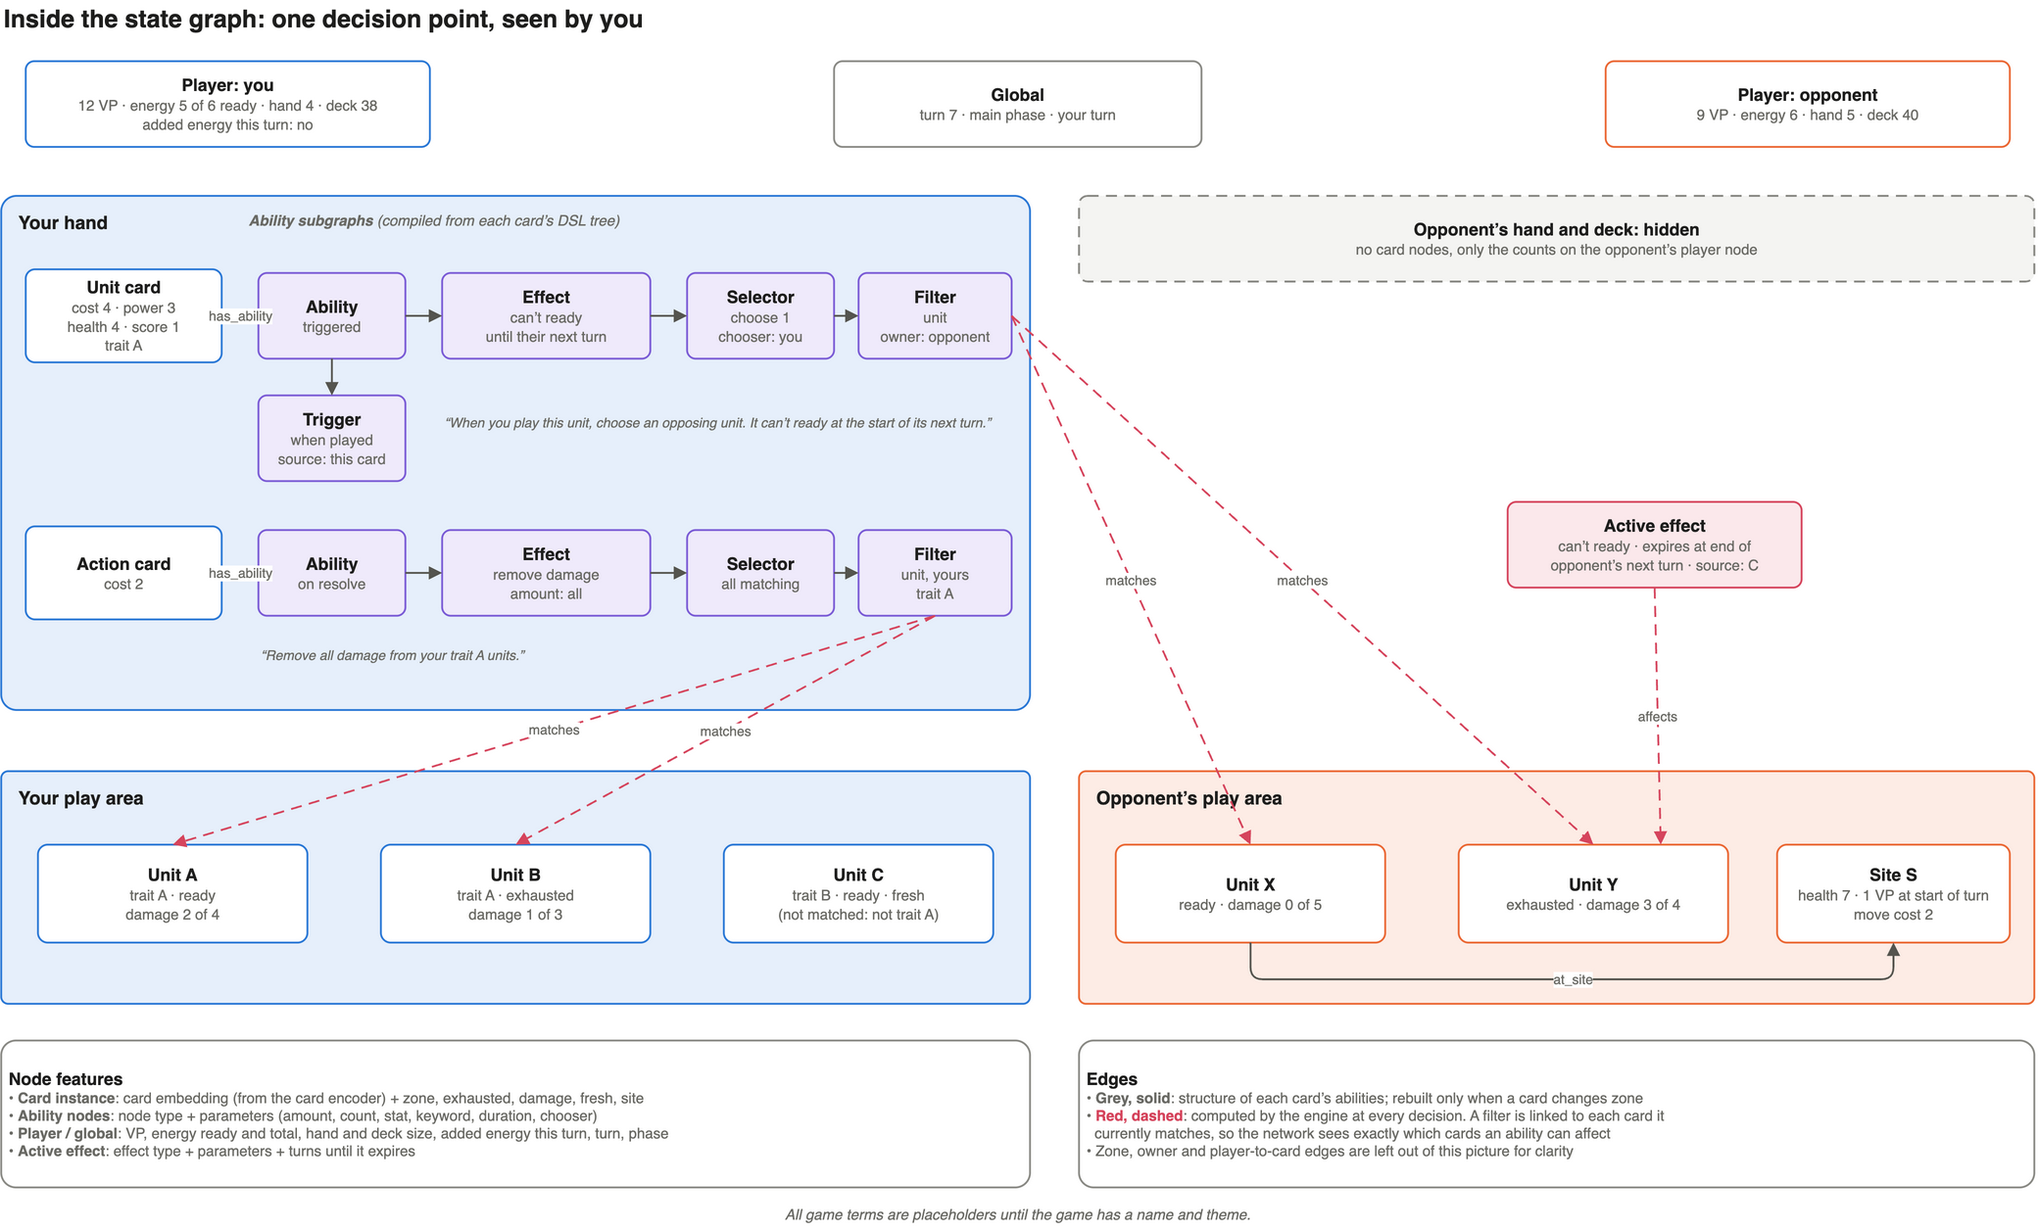
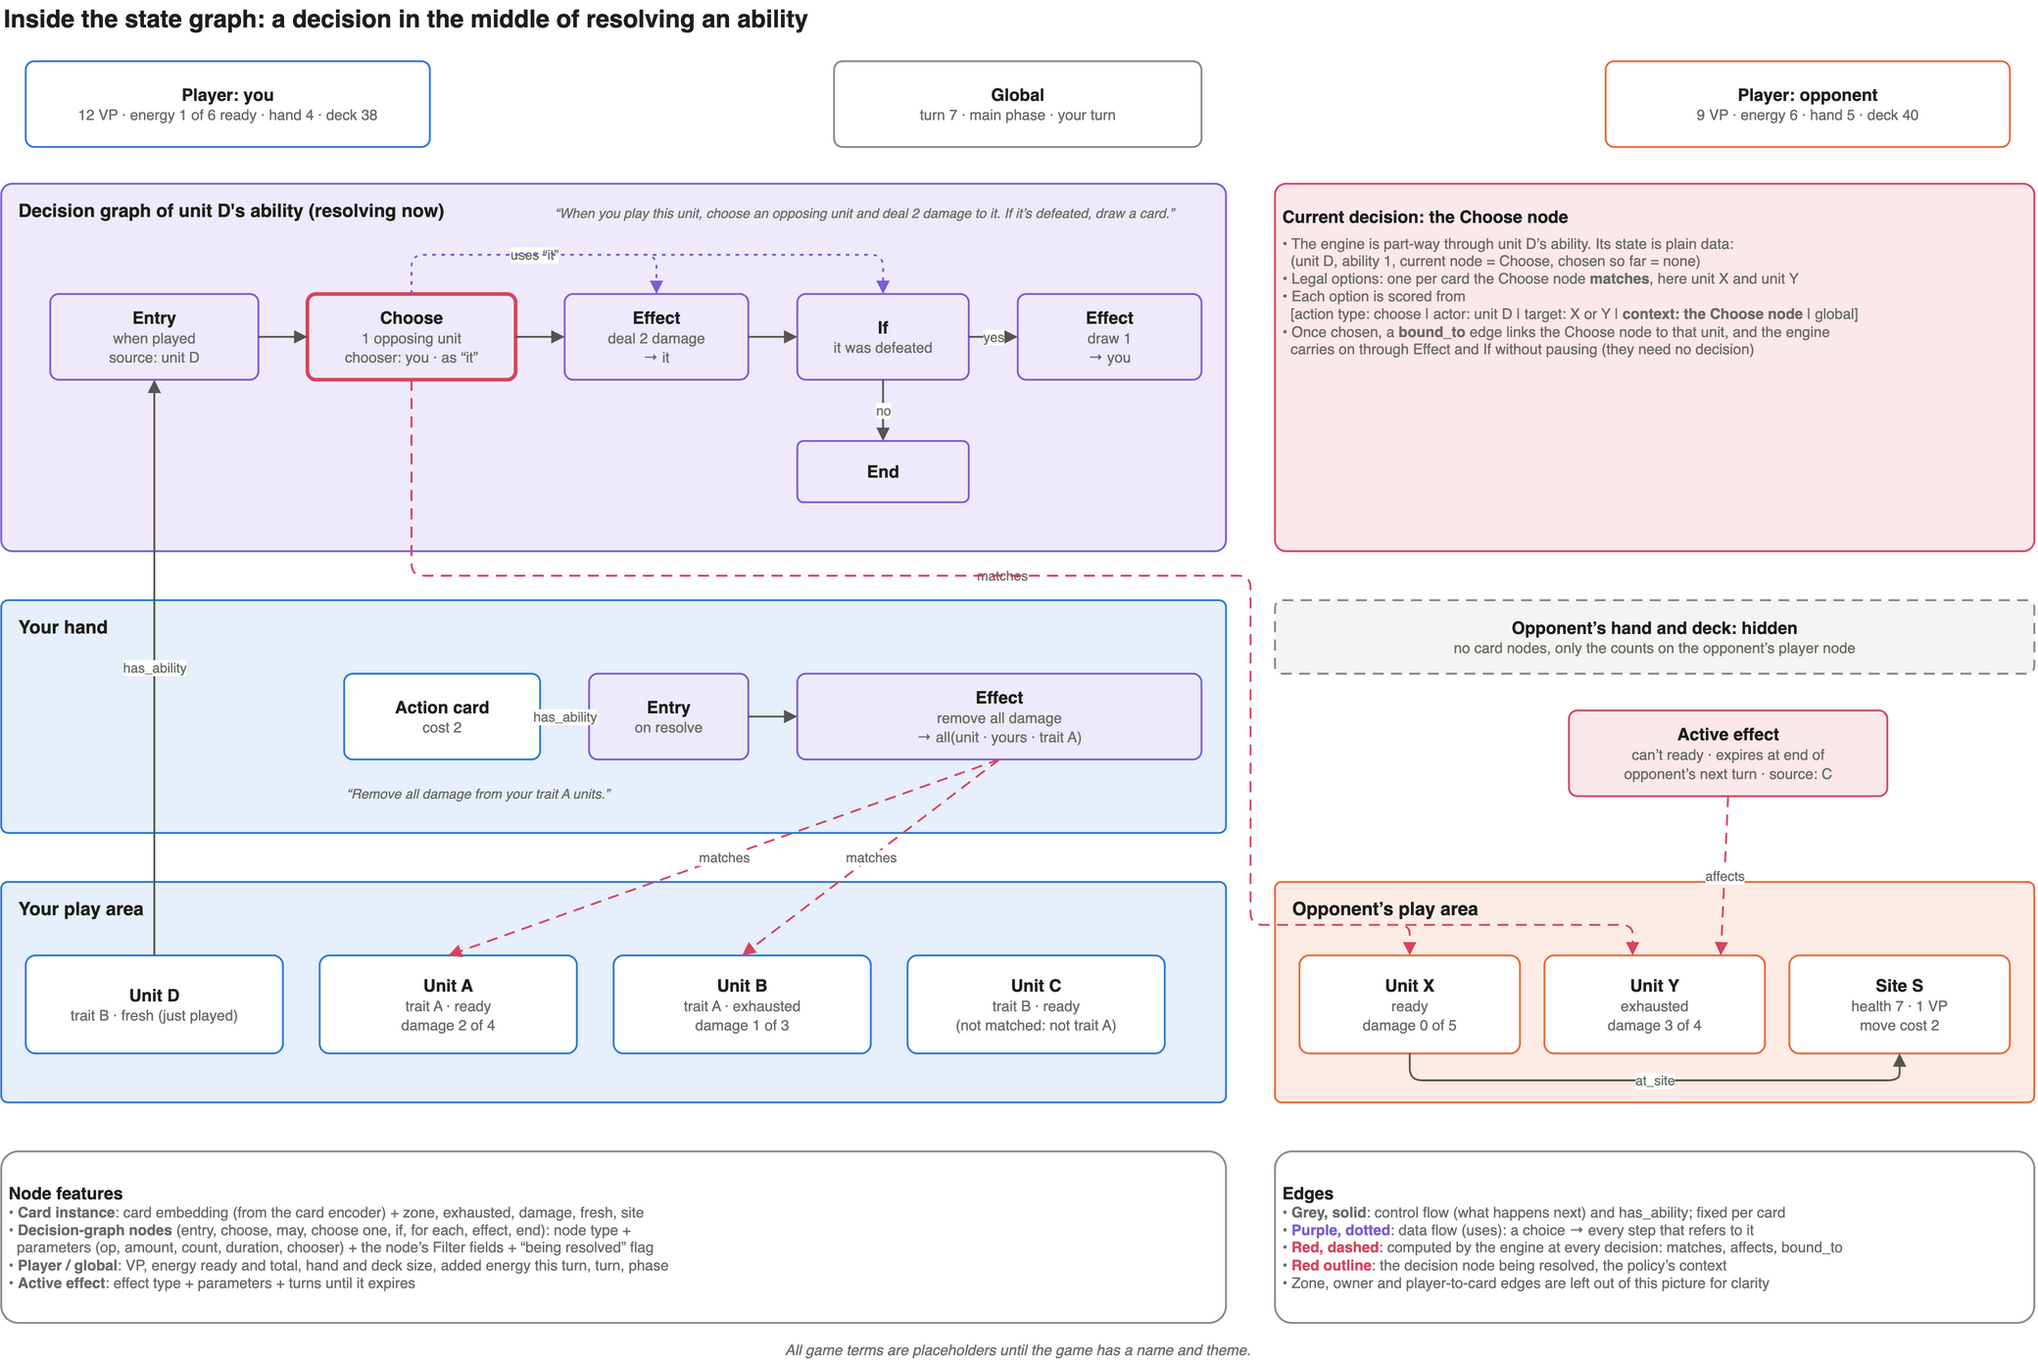
Design ability DSL: authoring trees compiled to decision graphs
- Abilities are written as nested trees (generated, validated, rendered as
  text) and compiled to decision graphs that the engine walks and the GNN
  reads; choices are decision nodes, references are data edges
- Static abilities and keywords stay declarative
- Grammar adds 'this card' subjects, situational conditions (attacking,
  defending, exhausted, damaged) and capped scaling amounts
- New diagram page: the full ability grammar, constraints and validation
  pipeline; state-graph page redrawn around a mid-ability decision

diff --git a/docs/technical-plan.md b/docs/technical-plan.md
@@ -15,7 +15,8 @@ the rules are defined. This also keeps the project free of card licensing issues
 ![System overview](architecture_overview.png)
 
 The diagram source is [architecture.drawio](architecture.drawio). Page 1 is the system
-overview above; page 2 shows the state graph in detail (see section 5).
+overview above; page 2 shows the state graph in detail (section 5); page 3 is the ability
+grammar: every ability the generator can produce (section 3).
 
 ## Placeholder glossary
 
@@ -110,53 +111,135 @@ followed by a bootstrapping round (section 8):
 }
 ```
 
-**Ability grammar.** It is small, typed and closed, so every tree can be executed,
-rendered as text and generated:
+**Abilities are written as trees and run as decision graphs.** Each ability exists in two
+forms:
+
+1. **Authoring form: a nested tree, stored in the card JSON.** This is what gets written by
+   hand, generated, validated and rendered as card text. Trees are easy for all four.
+2. **Decision graph, compiled once per card from the tree.** The engine executes it and the
+   GNN reads it. Each step becomes a node. Control edges say what happens next. Data edges
+   connect a choice to every later step that refers to it ("it", "that unit", "if you do").
+
+Static abilities and keywords aren't sequences of steps. They are rules applied whenever
+stats or legality are calculated, so they stay declarative and are never compiled into a
+flow.
+
+![Ability grammar](architecture_ability_grammar.png)
+
+**Grammar (authoring form).** It is small, typed and closed. Page 3 of the diagram lists
+every alternative and value range: it is the full space of abilities the generator can
+produce.
 
 ```
-Ability   := triggered(Trigger, [Condition], [Cost], Effect+)
-           | activated(Cost+, [Condition], Effect+)
-           | static(Condition?, Modifier+)
-Trigger   := on_play | on_score | on_duel | on_defeated | on_start_of_turn | on_end_of_turn | …  (+ source Filter)
-Effect    := deal_damage(n, Selector) | remove_damage(n|all, Selector) | defeat(Selector)
-           | return_to_hand(Selector) | draw(n, Player) | gain_vp(n, Player) | lose_vp(n, Player)
-           | exhaust(Selector) | ready(Selector) | cant_ready(Selector, Duration)
-           | modify_stat(stat, Δ, Selector, Duration) | grant_keyword(kw, Selector, Duration)
-           | put_into_energy(Selector) | look_and_choose(n, …) | …
-Selector  := choose(count, chooser, Filter, optional?) | all(Filter) | this | random(count, Filter)
-Filter    := {type?, owner?, zone?, trait?, cost_cmp?, damaged?, exhausted?, name?, …}
-Duration  := this_turn | until_their_next_turn | while(Condition) | permanent
+Ability    := triggered(Trigger, [Condition], Steps)
+            | activated(Cost, [Condition], Steps)            // "⟳ …" abilities
+            | on_resolve(Steps)                              // action cards
+            | static([Condition], Modifier+)                 // declarative, not compiled to a flow
+Steps      := Step+                                          // 1–4 steps, run in order
+Step       := choose(count, chooser, Filter, optional?) as Name    // decision point
+            | Effect
+            | if(Condition) then Steps [else Steps]
+            | may(Steps) [if_you_do Steps]                   // yes / no decision point
+            | choose_one(Steps, Steps)                       // decision point
+            | for_each(Target) Steps
+Effect     := op(Amount?, Target, [Duration])
+Target     := Name | this | all(Filter) | you | opponent | owner_of(Name)
+Trigger    := event + source (this | Filter)
+Cost       := exhaust_this | pay(n) | exhaust_another | discard          (up to two)
+Condition  := defeated(Name) | in_play(Name) | count(Filter) ≥ n | vp_compare | your_turn
+            | this_is(attacking | defending | exhausted | damaged)
+Modifier   := Subject gets stat ±Amount [while Condition]
+            | Subject gains Keyword [while Condition]
+            | cost(−1) for Filter
+Subject    := this | all(Filter)
+Amount     := n | k per count(Filter), up to cap | stat_of(Name)
+Filter     := {type?, owner?, zone?, trait?, cost_cmp?, damaged?, exhausted?, keyword?, not_this?}
+Duration   := this_turn | until_their_next_turn | while_this_in_play | permanent
 ```
 
-**Requirements so the DSL can be generated:**
+A `Name` can only refer to a choice made earlier in the same ability. That keeps every tree
+valid and every reference renderable as text.
 
-- **Types and ranges.** Every parameter has a type and a valid range (e.g. `deal_damage.n ∈
-  1..5`). Every effect has a *polarity* (does it help or hurt the target?) so that, say,
-  "remove damage" can't target opposing units unless a rule explicitly allows it.
-- **Text renderer.** A DSL → card text renderer is needed for the Unity client and for
-  human review. It is also the easy direction: nothing has to parse free text.
-- **"Does something" check.** The engine checks that an ability actually changes game state
-  across simulated games, and that it never loops.
-- **Granularity.** The building blocks set the design space, so generated abilities are new
-  combinations, not new mechanics. Fine-grained, independent building blocks (events, zones,
-  counters, conditions) widen that space but make generation harder; template-sized blocks
-  do the opposite. Start template-sized and break blocks apart as the generator improves.
+**Scaling amounts.** Wherever an effect or modifier takes a number, it can take an `Amount`
+instead. That covers "deal 1 damage for each Elf in play" and "deal damage equal to its
+power". A static ability can scale too: "While this unit is attacking, it gets +1 power for
+each Elf in play (up to +4)" is `static(this_is(attacking), this gets power +(1 per
+count(Elf in play), up to 4))`. Statics are recalculated live, so the count is taken when the
+bonus is needed. A triggered version ("when this unit attacks, it gets +1 power this turn for
+each Elf") takes a snapshot instead. In the state graph, a scaling amount is its own small
+node with `matches` edges to the cards it is counting.
 
-**The two example abilities as trees:**
+**Generation constraints.** These are applied while sampling, then checked again before a
+card is accepted:
+
+- **Scope.** References only point to earlier choices in the same ability.
+- **Types.** An effect's target has the right type: unit effects target units, player
+  effects target players.
+- **Polarity.** Every effect either helps or hurts its target. Helpful effects target your
+  side, harmful ones the opponent's. The reverse is allowed only inside `may … if_you_do`,
+  as a cost ("You may deal 2 damage to one of your units. If you do, draw 2 cards.").
+- **Size.** At most 2 abilities per card, 4 steps per sequence, nesting depth 2, and 2
+  choices per ability.
+- **Ranges.** Every number comes from its range (e.g. `deal_damage` 1–5). A scaling amount
+  must have a cap, so the card's strength is bounded and the cost model can price it.
+- **Validation pipeline:**
+  1. Render the card text.
+  2. Compile the decision graph.
+  3. Simulate in self-play. The ability must change the game state and never loop.
+  4. The cost model sets the card's cost and stats (auto-costing).
+
+**Granularity.** The building blocks set the design space, so generated abilities are new
+combinations, not new mechanics. Fine-grained, independent building blocks (events, zones,
+counters, conditions) widen that space but make generation harder; template-sized blocks do
+the opposite. Start template-sized and break blocks apart as the generator improves.
+
+**Two examples in authoring form:**
 
 ```jsonc
-// "When you play this unit, choose an opposing unit. It can't ready at the start of its next turn."
+// "When you play this unit, choose an opposing unit and deal 2 damage to it. If it's defeated, draw a card."
 {"kind": "triggered", "trigger": {"event": "on_play", "source": "this"},
- "effects": [{"op": "cant_ready", "duration": "until_their_next_turn",
-              "target": {"select": "choose", "count": 1, "chooser": "you",
-                         "filter": {"type": "unit", "owner": "opponent"}}}]}
+ "steps": [
+   {"choose": {"count": 1, "chooser": "you", "filter": {"type": "unit", "owner": "opponent"}}, "as": "it"},
+   {"effect": "deal_damage", "amount": 2, "target": "it"},
+   {"if": {"defeated": "it"}, "then": [{"effect": "draw", "amount": 1, "target": "you"}]}]}
 
 // "Remove all damage from your trait A units."
 {"kind": "on_resolve",
- "effects": [{"op": "remove_damage", "amount": "all",
-              "target": {"select": "all",
-                         "filter": {"type": "unit", "owner": "you", "trait": "trait_a"}}}]}
+ "steps": [{"effect": "remove_damage", "amount": "all",
+            "target": {"all": {"type": "unit", "owner": "you", "trait": "trait_a"}}}]}
 ```
+
+**The decision graph.** The first example compiles to:
+
+```
+ENTRY(on_play) → CHOOSE(1 opposing unit, as "it") → EFFECT(deal 2 damage) → IF(defeated?) ─yes→ EFFECT(draw 1)
+                        ║                                   ▲                    ▲          └─no──→ END
+                        ╚══════════ uses "it" ══════════════╩════════════════════╝
+```
+
+- **Node types:**
+  - `entry`
+  - `choose`, `may`, `choose_one`: the decision points
+  - `if`, `for_each`, `effect`
+  - `end`
+- **Edges:**
+  - control: `next`, `then`, `else`, `option`, `if_you_do`
+  - data: `uses`, from a `choose` or `for_each` to every step that refers to its name
+- **Filters** are features of the node that uses them: a `choose`, an `effect` targeting
+  `all(…)`, or an `if` testing `count(…)`.
+
+Why this form works for both consumers:
+
+- **References are edges.** "It" is a data edge, so no variable scoping is needed at run time.
+- **Resolution state is plain data.** A pending ability is (source card, ability, current
+  node, chosen values). The engine keeps a stack of them. The game can be cloned, saved or
+  sent to the Unity client in the middle of resolving an ability, and porting to C# is
+  straightforward. A recursive interpreter built on Python generators couldn't be
+  deep-copied, and search needs `clone()`.
+- **Decision nodes are the engine's decision points.** At a `choose`, `may` or `choose_one`
+  node the engine pauses and offers the legal options. The policy head gets that node as its
+  *context*, so the network knows exactly which step of which ability it is deciding.
+- **The GNN reads the graph directly** as the card's ability subgraph.
 
 **Card sources:**
 
@@ -177,6 +260,10 @@ Duration  := this_turn | until_their_next_turn | while(Condition) | permanent
   Every decision is "choose one of these N options", and each option refers to graph nodes.
 - **Events and triggers:** an event bus feeds a trigger queue, resolved in rules order.
   Durations are stored as active effects and expired by the turn structure.
+- **Ability resolution:** a stack of pending abilities, each (source card, ability, current
+  node, chosen values). The engine walks each decision graph and pauses at `choose`, `may`
+  and `choose_one` nodes, which become ordinary decision points. Static abilities are
+  applied whenever stats or legality are calculated.
 - **Determinism:** all randomness comes from a seeded RNG. `clone()` and
   `determinize(player)` (re-deal the hidden cards consistently with what the player has
   seen) support search in part b.
@@ -193,19 +280,22 @@ One heterogeneous graph per player per decision point (`torch_geometric.data.Het
 | Node type | Features |
 |---|---|
 | `card` (each card instance that is visible) | card embedding from the card encoder + zone, exhausted, damage, fresh, site, owner (relative: you / opponent) |
-| `ability`, `trigger`, `cost`, `condition`, `effect`, `selector`, `filter` | node type + its parameters (amount, count, stat, keyword, duration, chooser), numbers normalised |
+| ability graph nodes: `entry`, `choose`, `may`, `choose_one`, `if`, `for_each`, `effect`, `end`, plus `static` | node type + parameters (op, amount, count, stat, keyword, duration, chooser) + the fields of the node's Filter, numbers normalised; a flag on the node currently being resolved |
 | `player` (you, opponent) | VP, energy ready / total, hand size, deck size, added energy this turn |
 | `global` | turn number, phase, whose turn |
 | `active_effect` | effect type + parameters + turns until it expires |
 
 | Edge type | Kind | Meaning |
 |---|---|---|
-| `has_ability`, `ability → trigger/cost/condition/effect`, `effect → selector → filter` | static | ability tree structure |
+| `has_ability` | static | card → each of its abilities' `entry` (or `static`) node |
+| `next`, `then`, `else`, `option`, `if_you_do` | static | control flow inside a decision graph |
+| `uses` | static | data flow: a `choose` / `for_each` → every later step that refers to its name ("it") |
 | `same_name` | static | links cards that share a name (Evolve, "named X" checks) without a name embedding |
 | `owns`, `in_zone` | dynamic | player → card, card → zone |
 | `at_site`, `evolved_from` | dynamic | board structure |
 | `faces` | dynamic | between every unit in play and every opposing unit, so units can weigh up direct threats |
-| `matches` | dynamic | filter → every card it currently matches, computed by the engine (respects Veiled, Elusive, etc.) |
+| `matches` | dynamic | a node with a Filter (`choose`, `effect` on `all(…)`, `if` on `count(…)`, `static`, a scaling `amount`) → every card the Filter currently matches, computed by the engine (respects Veiled, Elusive, etc.) |
+| `bound_to` | dynamic | while an ability resolves: a `choose` node → the card(s) already chosen for it |
 | `affects`, `source_of` | dynamic | active effect → affected card; card → effect it created |
 
 Every edge type also gets its reverse, so information flows both ways.
@@ -231,8 +321,10 @@ so a few hundred nodes. That batches easily on a GPU.
   framework-neutral encoder (`src/graph/encode.py`, NumPy arrays). The transformer's input is
   padded to a few fixed sizes, so it also suits TPUs and a JAX port.
 - **Policy head:** each legal option is encoded as `MLP([action-type embedding,
-  emb(actor node), emb(target node), emb(global)])` and scored, with a softmax over the legal
-  options only (a pointer-network style head).
+  emb(actor node), emb(target node), emb(context node), emb(global)])` and scored, with a
+  softmax over the legal options only (a pointer-network style head). While an ability
+  resolves, the context is the decision node being resolved. For a `choose`, the target is
+  the card. For a `choose_one`, the target is the first node of the option's branch.
 - **Value head:** win probability from the pooled player and global nodes. Auxiliary targets
   (final VP difference, turns remaining) help early training.
 - **Cost model:** predicts a card's fair cost from its embedding, trained on the agent's games
@@ -248,6 +340,7 @@ so a few hundred nodes. That batches easily on a GPU.
 | `clone` / `determinize` | AlphaZero-style search over hidden information later | Cheaper, stronger agents for tournaments |
 | No card IDs, cards described by content | Trains on randomized pools and generalises | Evaluates generated cards with no retraining |
 | Typed, closed DSL with a text renderer | — | The generator samples valid trees; the engine runs them unchanged; every card is readable |
+| Abilities compiled to decision graphs | Choices inside abilities are ordinary decision points, scored with the decision node as context | Generated trees run in the engine with no new code |
 | Card embedding + cost model | — | Auto-costing and fast screening of candidates |
 
 ## 8. Bootstrapping from nothing
@@ -285,8 +378,9 @@ it can settle on a "balance" that only its own agent believes in. Mitigations:
 5. Model forward pass on batched graphs, plus a smoke-test training loop (value regression on
    random-play outcomes). **This is the first end-to-end slice, and it covers round 0 of
    section 8.**
-6. DSL interpreter: triggers, selectors, filters, durations, active effects. Add
-   abilities to the starter set and the sampler.
+6. Ability DSL: authoring trees with validation, a text renderer, the compiler to decision
+   graphs, and a graph walker with a pending-ability stack; triggers, filters, durations,
+   active effects. Add abilities to the starter set and the sampler.
 7. Then: actions and items, sites, chants and Evolve.
 
 ## 10. Open questions

diff --git a/CLAUDE.md b/CLAUDE.md
@@ -23,6 +23,9 @@ Decisions already made (don't re-open without a reason):
   entity transformer (`--arch transformer`) is kept for accelerators.
 - **TPUs:** no TPU / JAX work until profiling shows the model is the bottleneck.
 - **Client:** the Unity client is a thin view. The Python server owns all rules and state.
+- **Abilities:** authored as trees (the grammar in docs/technical-plan.md section 3), compiled to
+  decision graphs that the engine walks and the GNN reads. Static abilities and keywords stay
+  declarative.
 
 ## Layout
 
@@ -70,7 +73,7 @@ Training prints are buffered when piped. Use `PYTHONUNBUFFERED=1` to watch a log
   say why, and few inline comments.
 - **Diagrams.** Edit `docs/architecture.drawio` in draw.io, then re-export the PNGs:
   `drawio -x -f png -s 1.25 -p 1 -o docs/architecture_overview.png docs/architecture.drawio`
-  (`-p 2` → `architecture_state_graph.png`).
+  (`-p 2` → `architecture_state_graph.png`, `-p 3` → `architecture_ability_grammar.png`).
 - **Git.** Commit only when asked.
 
 ## Unity client
